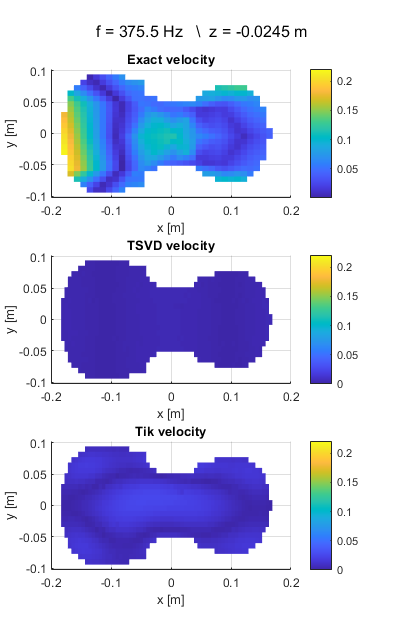
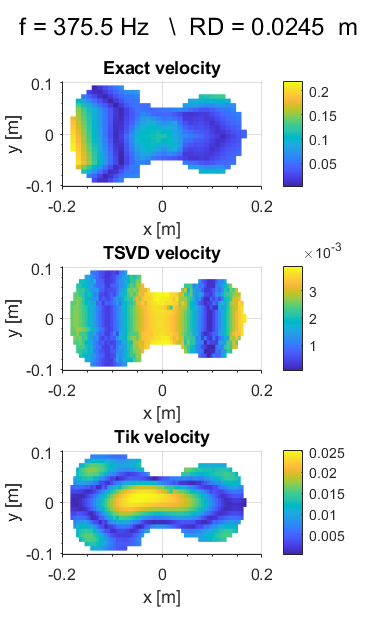
correct plots

diff --git a/functions/reguFiguresExperimental.m b/functions/reguFiguresExperimental.m
@@ -37,45 +37,60 @@ function [] = reguFiguresExperimental(violinMesh, v_TSVD, v_TIK, v_GT_vector, vi
     surf_vTIK = reshape(v_TIKF, [pY,pX]).';
     
     
-    figure(figureNum+1)
-
-    subplot 131
-    surf(XX,YY, abs(surfV)); view(2);
-    title('velocity groundTruth'); colorbar;
-    
-    subplot 132
-    surf(X,Y, abs(surf_vTSVD)); view(2);
-    title('TSVD velocity'); colorbar;
-     caxis([0 max(abs(surfV(:)))])
-
-    subplot 133
-    surf(X,Y, abs(surf_vTIK )); view(2);
-    title('Tik velocity'); colorbar;
-    sgtitle(titleStr);  
-     caxis([0 max(abs(surfV(:)))])   
-
 %     figure(figureNum+1)
-%     
-%     subplot 311
-%     surf(YY,-XX, abs(flip(surfV,2)),'EdgeColor','none'); view(2);
-%     title('Exact velocity'); colorbar;
-%     xlabel('x [m]')
-%     ylabel('y [m]')
-%     
-%     subplot 312
-%     surf(Y,-X, abs(flip(surf_vTSVD,2)),'EdgeColor','none'); view(2);
-%     title('TSVD velocity'); colorbar;
-%     xlabel('x [m]')
-%     ylabel('y [m]')
-%     caxis([0 max(abs(surfV(:)))])
 % 
-%     subplot 313
-%     surf(Y,-X, abs(flip(surf_vTIK,2) ),'EdgeColor','none'); view(2);
+%     subplot 131
+%     surf(XX,YY, abs(surfV)); view(2);
+%     title('velocity groundTruth'); colorbar;
+%     
+%     subplot 132
+%     surf(X,Y, abs(surf_vTSVD)); view(2);
+%     title('TSVD velocity'); colorbar;
+%      caxis([0 max(abs(surfV(:)))])
+% 
+%     subplot 133
+%     surf(X,Y, abs(surf_vTIK )); view(2);
 %     title('Tik velocity'); colorbar;
 %     sgtitle(titleStr);  
-%     xlabel('x [m]')
-%     ylabel('y [m]')
-%     caxis([0 max(abs(surfV(:)))]) 
+%      caxis([0 max(abs(surfV(:)))])   
+
+    figure(figureNum+1)
+    
+    subplot 311
+    surf(YY,-XX, abs(flip(surfV,2)),'EdgeColor','none'); view(2);
+    title('Exact velocity'); colorbar;
+    xlabel('x [m]')
+    ylabel('y [m]')
+    ax = gca;
+    ax.XMinorTick = 'on';
+    ax.YMinorTick = 'on';
+    ax.TickDir = 'out';
+    ax.FontSize = 12;
+    
+    subplot 312
+    surf(Y,-X, abs(flip(surf_vTSVD,2)),'EdgeColor','none'); view(2);
+    title('TSVD velocity'); colorbar;
+    xlabel('x [m]')
+    ylabel('y [m]')
+    ax = gca;
+    ax.XMinorTick = 'on';
+    ax.YMinorTick = 'on';
+    ax.TickDir = 'out';
+    ax.FontSize = 12;
+    
+    subplot 313
+    surf(Y,-X, abs(flip(surf_vTIK,2) ),'EdgeColor','none'); view(2);
+    title('Tik velocity'); colorbar;
+    sgtitle(titleStr,'fontSize', 18 );  
+
+    xlabel('x [m]')
+    ylabel('y [m]')
+    
+    ax = gca;
+    ax.XMinorTick = 'on';
+    ax.YMinorTick = 'on';
+    ax.TickDir = 'out';
+    ax.FontSize = 12;
      
      
     a=1; 

diff --git a/functions/reguFiguresSynthetic.m b/functions/reguFiguresSynthetic.m
@@ -36,21 +36,35 @@ function [] = reguFiguresSynthetic(violinMesh, v_TSVD, v_TIK, v_GT_vector, virtu
     ylabel('y [m]')
     title('Exact velocity')
     colorbar 
+    ax = gca;
+    ax.XMinorTick = 'on';
+    ax.YMinorTick = 'on';
+    ax.TickDir = 'out';
+    ax.FontSize = 12;
+    
     subplot 312
     surf(X, Y, abs(surfVelRecTSVD),'EdgeColor','none');view(2);
     xlabel('x [m]')
     ylabel('y [m]')
     title('TSVD velocity')
     colorbar 
-    caxis([0 max(abs(surfVel(:)))])
+    ax = gca;
+    ax.XMinorTick = 'on';
+    ax.YMinorTick = 'on';
+    ax.TickDir = 'out';
+    ax.FontSize = 12;
+    
     subplot 313
     surf(X, Y, abs(surfVelRecTIK),'EdgeColor','none');view(2);
     xlabel('x [m]')
     ylabel('y [m]')
     title('Tik velocity')
     colorbar 
-    caxis([0 max(abs(surfVel(:)))])
-    sgtitle(titleStr);  
+    ax = gca;
+    ax.XMinorTick = 'on';
+    ax.YMinorTick = 'on';
+    ax.TickDir = 'out';
+    ax.FontSize = 12;    sgtitle(titleStr,'fontSize', 18 );  
 
     
     

diff --git a/functions/applyESM.m b/functions/applyESM.m
@@ -90,7 +90,7 @@ if plotData
     v_TIK = ESM_Results.vTIK;
     
     titleStr = ['  f = ',num2str(omega/2/pi), ...
-                ' Hz   \\  z = ', num2str(virtualPoints(1,3)) , '  m' ];
+                ' Hz   \\  RD = ', num2str(abs(virtualPoints(1,3))) , '  m' ];
     figureNum = 660;
     if experimentalData 
         reguFiguresExperimental(violinMesh, v_TSVD, v_TIK,  v_GT_vector,virtualPoints, titleStr, pressure  , figureNum);

diff --git a/Main_experimental.m b/Main_experimental.m
@@ -120,7 +120,7 @@ yStep = abs(yAx - circshift(yAx,+1));
 % The distance should be lattice/2  
 % lattice = min(Dxhologram, Dyhologram) = min spacial sampling sampling step
 zCenter = -0.5*min([min(xStep), min(yStep)]);
-plotData = false;
+plotData = true;
 experimentalData = true;
 
 userControl = input('choose z value // optimize z (!! iterations !!)[1,0] : ');
